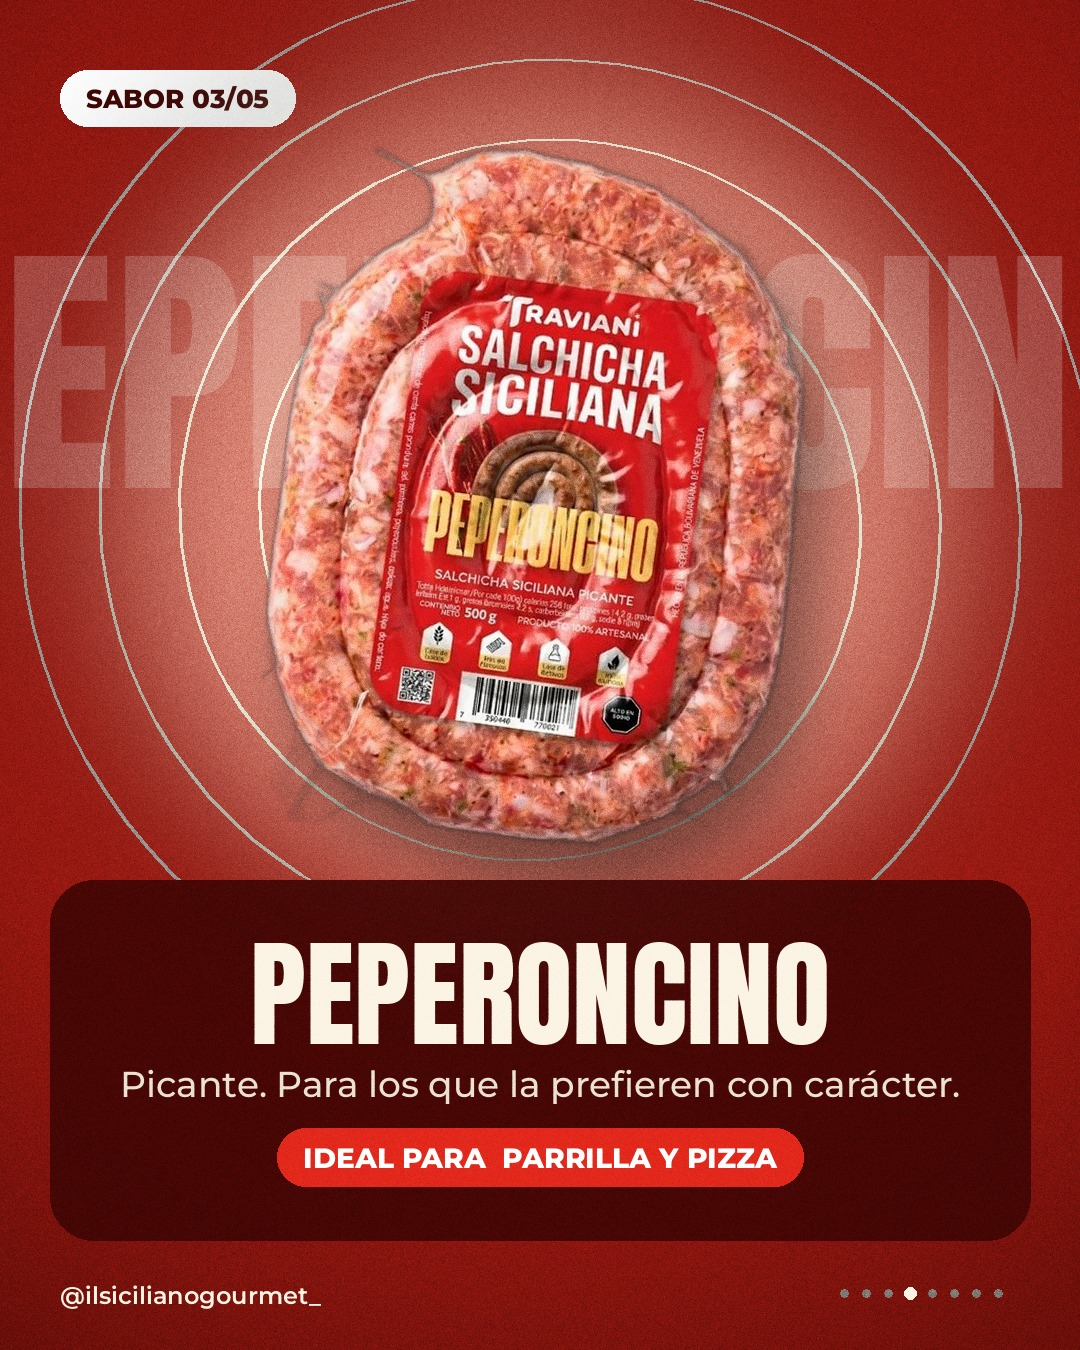
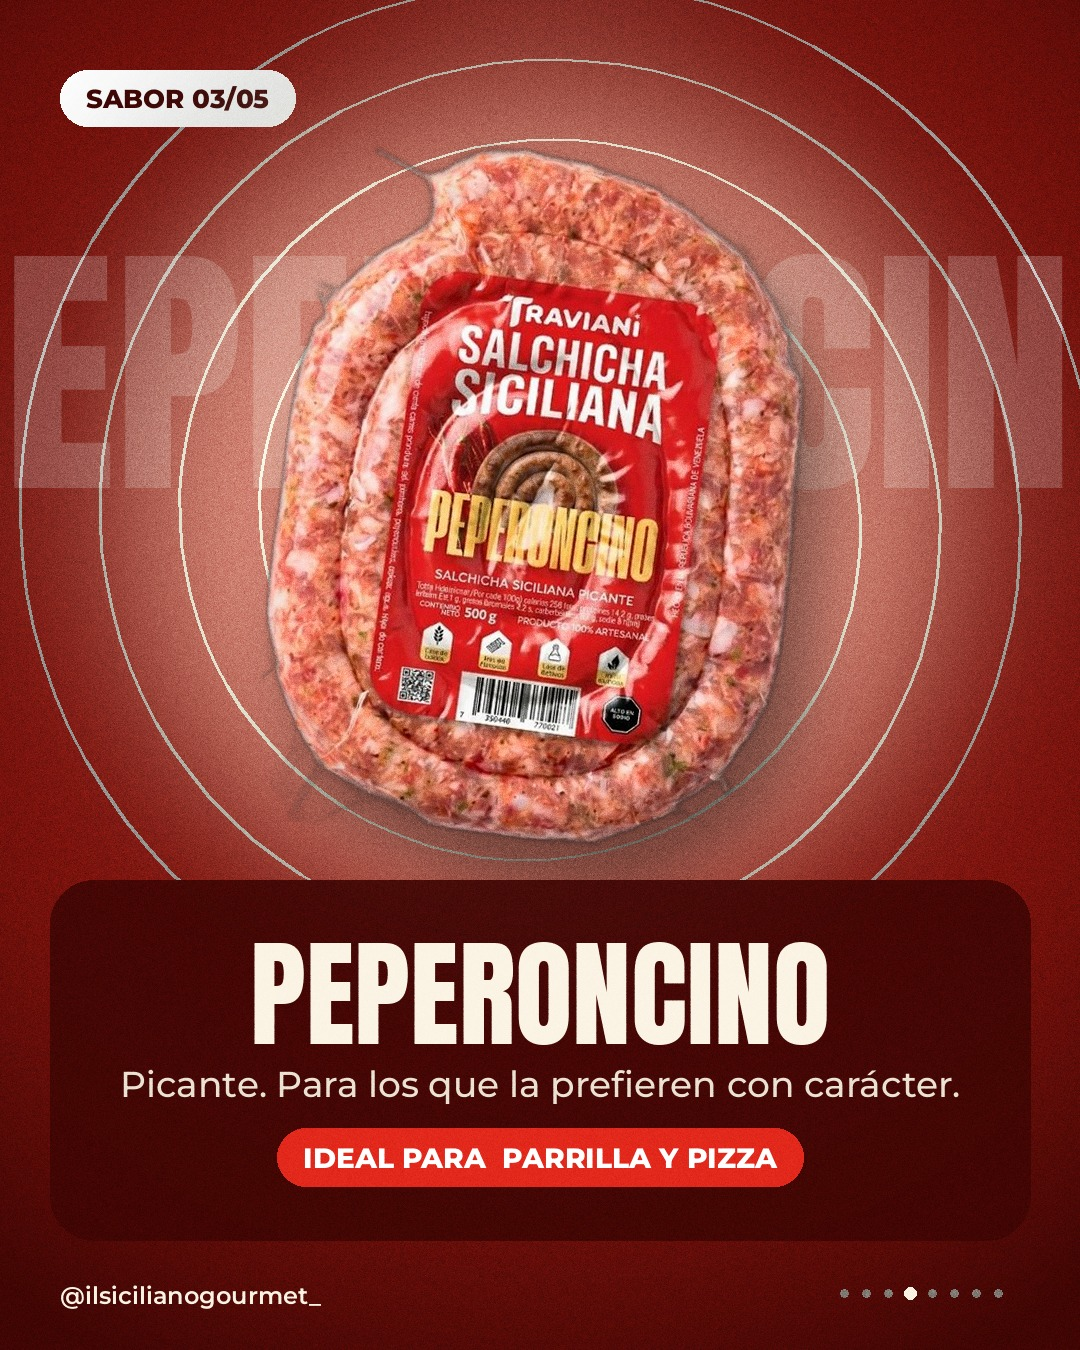
Dia 01: version TikTok 9:16
Claude-Session: https://claude.ai/code/session_01BoapLYkqJjC4bybfaGWR3T

Changed region(s): [[0.0, 0.0, 1.0, 1.0]]

diff --git a/generador.py b/generador.py
@@ -30,17 +30,34 @@ def mont(s, peso="Bold"):
 
 
 # ---------- fondos ----------
+# FORMATO: "ig" = 1080x1350 (Instagram 4:5) | "tt" = 1080x1920 (TikTok 9:16)
+FORMATO = "ig"
+TT_H, TT_OY = 1920, 150   # en TikTok el diseño baja 150 px (zona segura superior)
+_fondo = {}
+
+
 def grano(im, fuerza=18):
+    w, h = im.size
     random.seed(7)
-    n = Image.effect_noise((W, H), fuerza).convert("RGB")
-    return ImageChops.overlay(im, Image.blend(Image.new("RGB", (W, H), (128, 128, 128)), n, 0.5))
+    n = Image.effect_noise((w, h), fuerza).convert("RGB")
+    return ImageChops.overlay(im, Image.blend(Image.new("RGB", (w, h), (128, 128, 128)), n, 0.5))
+
+
+def _radial(centro_col, borde_col, cx, cy_px, r, h):
+    import numpy as np
+    yy, xx = np.mgrid[0:h, 0:W]
+    dist = np.sqrt((xx - W * cx) ** 2 + (yy - cy_px) ** 2) / (W * r)
+    m = Image.fromarray((np.clip(dist, 0, 1) * 255).astype("uint8"), "L")
+    return Image.composite(Image.new("RGB", (W, h), borde_col), Image.new("RGB", (W, h), centro_col), m)
 
 
 def radial(centro_col, borde_col, cx=0.5, cy=0.42, r=0.95):
-    g = Image.radial_gradient("L").resize((int(W * 2 * r), int(W * 2 * r)))
-    m = Image.new("L", (W, H), 255)
-    m.paste(g, (int(W * cx - g.width / 2), int(H * cy - g.height / 2)))
-    return Image.composite(Image.new("RGB", (W, H), borde_col), Image.new("RGB", (W, H), centro_col), m)
+    """Devuelve el lienzo de trabajo 1080x1350. En TikTok es transparente y el fondo
+    se pinta a pantalla completa en terminar()."""
+    _fondo.update(args=(centro_col, borde_col, cx, cy, r))
+    if FORMATO == "tt":
+        return Image.new("RGBA", (W, H), (0, 0, 0, 0))
+    return _radial(centro_col, borde_col, cx, H * cy, r, H)
 
 
 def espiral(d, cx, cy, rmax, color, ancho=3, vueltas=5):
@@ -157,6 +174,21 @@ def pie(d, col, n, total):
 
 
 def terminar(base):
+    if FORMATO == "tt":
+        c, b, cx, cy, r = _fondo["args"]
+        fondo = _radial(c, b, cx, TT_OY + H * cy, r * 1.15, TT_H).convert("RGBA")
+        # difuminar bordes superior/inferior del lienzo para que no se vean cortes
+        a = base.split()[3]
+        fade = Image.new("L", (W, H), 255)
+        fd = ImageDraw.Draw(fade)
+        F = 90
+        for i in range(F):
+            v = int(255 * (i / F) ** 1.6)
+            fd.line([(0, i), (W, i)], fill=v)
+            fd.line([(0, H - 1 - i), (W, H - 1 - i)], fill=v)
+        base.putalpha(ImageChops.multiply(a, fade))
+        fondo.alpha_composite(base, (0, TT_OY))
+        return grano(fondo.convert("RGB"), 22)
     return grano(base.convert("RGB"), 22)
 
 

diff --git a/dia01.py b/dia01.py
@@ -1,4 +1,8 @@
+import sys, generador
+generador.FORMATO = sys.argv[1] if len(sys.argv)>1 else 'ig'
 from generador import *
+CARP = 'dia01' if generador.FORMATO=='ig' else 'dia01_tt'
+import os; os.makedirs(CARP, exist_ok=True)
 T=8
 s=[portada('5 SABORES','DE SICILIA','DESLIZA Y ELIGE EL TUYO  →',T),
 lamina_sabor('FINOCCHIO',1,'Con hinojo. La receta clásica de Sicilia, aromática y tradicional.','pasta y panini',2,T),
@@ -8,8 +12,9 @@ lamina_sabor('PECORINO',4,'Con queso pecorino, perejil y tomate.','pasta y horno
 lamina_sabor('PARRILLERA',5,'Sabor criollo, pensada para la parrilla del fin de semana.','la parrilla',6,T),
 lamina_lista('LIMPIA Y NATURAL',[('0 NITRITOS','CERO'),('0 QUÍMICOS','CONSERVANTES'),('SIN GLUTEN','APTA'),('PROTEÍNA','ALTA EN')],'Delgada, en espiral y lista en pocos minutos.',7,T),
 lamina_cta(['PIDE DIRECTO','CON NOSOTROS'],['Delivery gratis desde 4 paquetes','Despachos solo en Caracas'],'WhatsApp +58 422 646 8537','$10',8,T)]
-for i,im in enumerate(s,1): im.save(f'dia01/{i:02d}.jpg',quality=92)
+for i,im in enumerate(s,1): im.save(f'{CARP}/{i:02d}.jpg',quality=92)
 from PIL import Image
-c=Image.new('RGB',(4*360,2*450),'white')
-for i,im in enumerate(s): c.paste(im.resize((360,450)),((i%4)*360,(i//4)*450))
-c.save('/tmp/dia01_v2.jpg')
+sz=(360,450) if generador.FORMATO=='ig' else (270,480)
+c=Image.new('RGB',(4*sz[0],2*sz[1]),'white')
+for i,im in enumerate(s): c.paste(im.resize(sz),((i%4)*sz[0],(i//4)*sz[1]))
+c.save(f'/tmp/{CARP}_vista.jpg')
